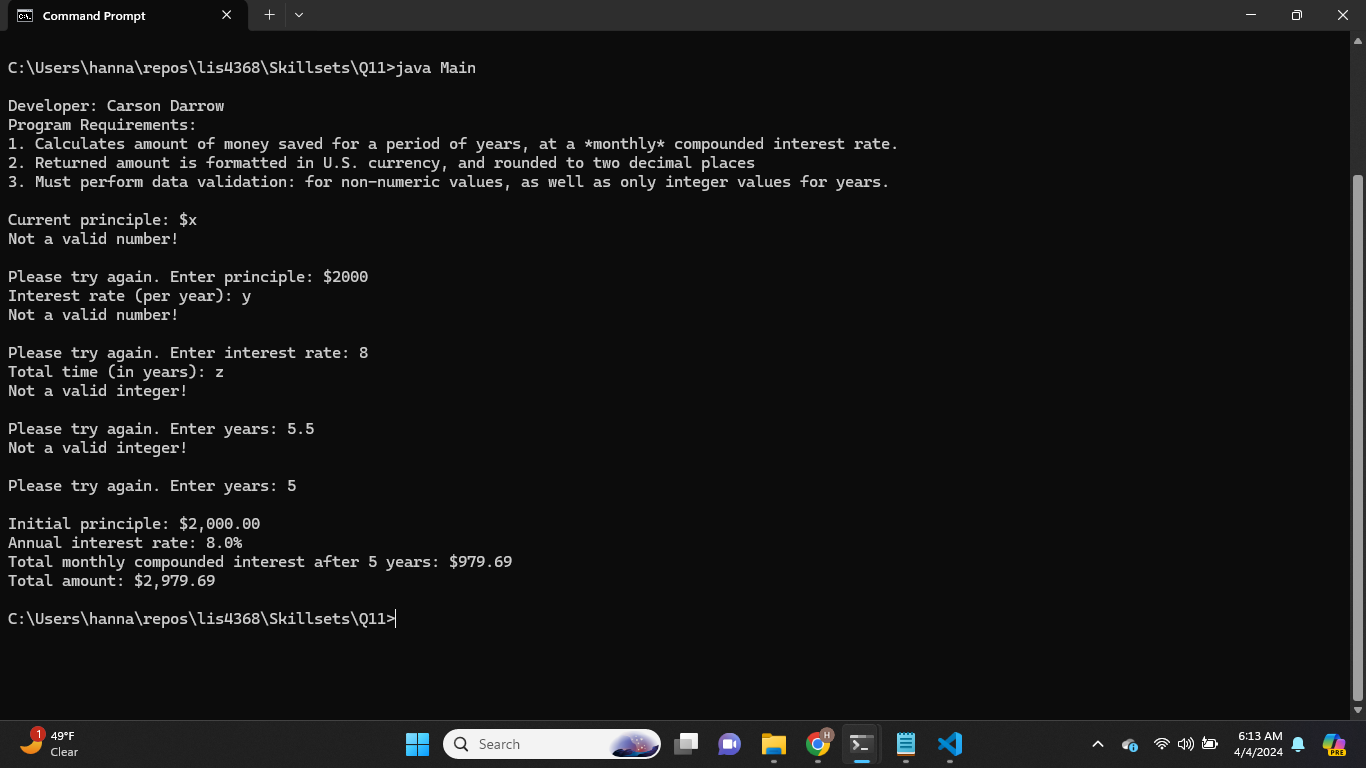
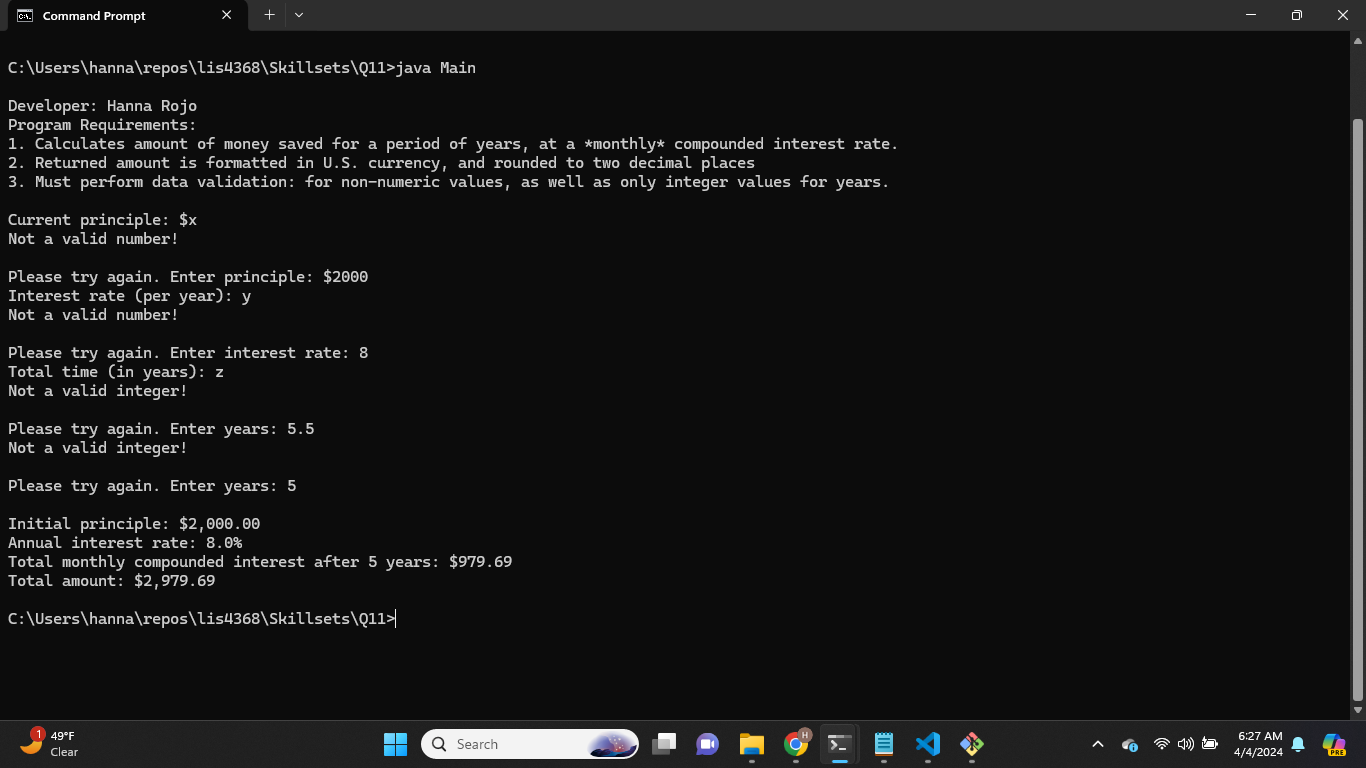
fix screenshot

diff --git a/Skillsets/Q11/Methods.java b/Skillsets/Q11/Methods.java
@@ -7,7 +7,7 @@ public class Methods
     public static void getRequirements() 
     {
         System.out.println(); // print blank line
-        System.out.println("Developer: Carson Darrow" );
+        System.out.println("Developer: Hanna Rojo" );
         System.out.println("Program Requirements: ");
         System.out.println("1. Calculates amount of money saved for a period of years, at a *monthly* compounded interest rate.");
         System.out.println("2. Returned amount is formatted in U.S. currency, and rounded to two decimal places");
